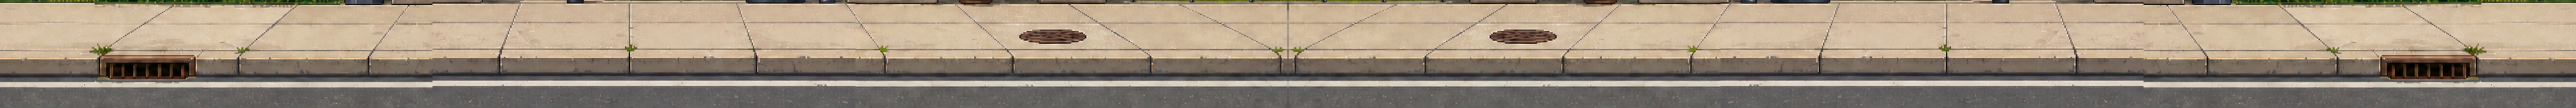
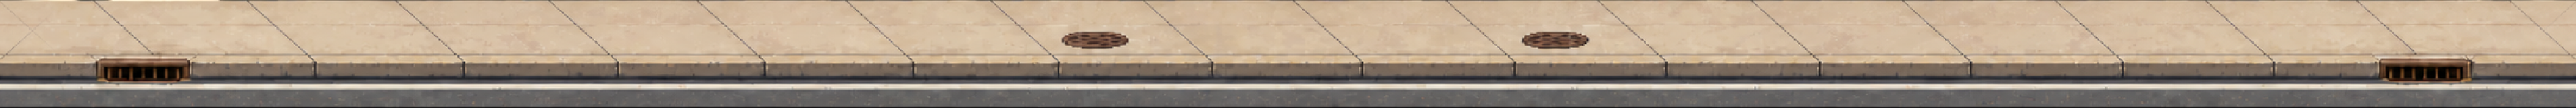
fix: rebuild Houston sidewalk perspective

diff --git a/tests/houston-foreground.test.js b/tests/houston-foreground.test.js
@@ -4,11 +4,16 @@ import assert from "node:assert/strict";
 import {
   ASSETS,
   FENCE_RUNS,
+  GROUND,
   GROUND_PLANES,
   OLD_BOUNDARIES,
   PROPS,
   buildHoustonForeground,
 } from "../src/houston-foreground.js";
+
+test("ground asset URL is revisioned so browsers do not reuse the broken strip", () => {
+  assert.match(GROUND.path, /ground-strip\.png\?v=sidewalk-2$/);
+});
 
 test("all manifest ids are unique and paths are modular assets", () => {
   const scene = buildHoustonForeground();

diff --git a/src/houston-foreground.js b/src/houston-foreground.js
@@ -5,7 +5,7 @@ const ROOT = "assets/backgrounds/houston-modular";
 export const GROUND_PLANES = Object.freeze({ back: 665, walk: 735 });
 
 export const GROUND = Object.freeze({
-  path: `${ROOT}/ground-strip.png`,
+  path: `${ROOT}/ground-strip.png?v=sidewalk-2`,
   width: 3812,
   height: 160,
   topSourceY: 665,

diff --git a/tests/test_houston_ground_asset.py b/tests/test_houston_ground_asset.py
@@ -1,0 +1,80 @@
+import os
+import unittest
+from pathlib import Path
+
+import numpy as np
+from PIL import Image
+
+
+GROUND_PATH = Path(
+    os.environ.get(
+        "HOUSTON_GROUND_PATH",
+        "assets/backgrounds/houston-modular/ground-strip.png",
+    )
+)
+
+
+def seam_scores(mask, slope):
+    height, width = mask.shape
+    ys = np.arange(8, min(80, height))
+    scores = []
+    for x0 in range(0, width, 4):
+        xs = np.rint(x0 + slope * (ys - 8)).astype(int)
+        valid = (xs >= 0) & (xs < width)
+        if valid.any():
+            scores.append(float(mask[ys[valid], xs[valid]].mean()))
+    return scores
+
+
+class HoustonGroundAssetTests(unittest.TestCase):
+    @classmethod
+    def setUpClass(cls):
+        cls.image = Image.open(GROUND_PATH).convert("RGBA")
+        cls.pixels = np.asarray(cls.image)
+
+    def test_ground_strip_keeps_game_geometry(self):
+        self.assertEqual(self.image.size, (3812, 160))
+        self.assertTrue(np.all(self.pixels[:, :, 3] == 255))
+
+    def test_top_edge_contains_clean_sidewalk_not_background_fringes(self):
+        top = self.pixels[:20, :, :3].astype(float)
+        green_background = (
+            (top[:, :, 1] > top[:, :, 0] * 1.08)
+            & (top[:, :, 1] > top[:, :, 2] * 1.20)
+        )
+        dark_border = top.mean(axis=2) < 45
+        self.assertLess(
+            float(green_background.mean()),
+            0.003,
+            "top of ground strip still contains green background pixels",
+        )
+        self.assertLess(
+            float(dark_border.mean()),
+            0.003,
+            "top of ground strip still contains a dark generator border",
+        )
+
+    def test_sidewalk_seams_use_one_consistent_diagonal_direction(self):
+        pavement = self.pixels[:90, :, :3].astype(float)
+        grayscale = pavement.mean(axis=2)
+        row_median = np.median(grayscale, axis=1)[:, None]
+        dark_detail = grayscale < row_median - 22
+
+        right_leaning = max(
+            sum(score > 0.28 for score in seam_scores(dark_detail, slope))
+            for slope in (0.75, 1.0, 1.25, 1.5)
+        )
+        left_leaning = max(
+            sum(score > 0.28 for score in seam_scores(dark_detail, slope))
+            for slope in (-0.75, -1.0, -1.25, -1.5)
+        )
+
+        self.assertGreater(
+            right_leaning,
+            left_leaning * 1.40,
+            "sidewalk contains competing left- and right-leaning seam perspectives",
+        )
+
+
+if __name__ == "__main__":
+    unittest.main()